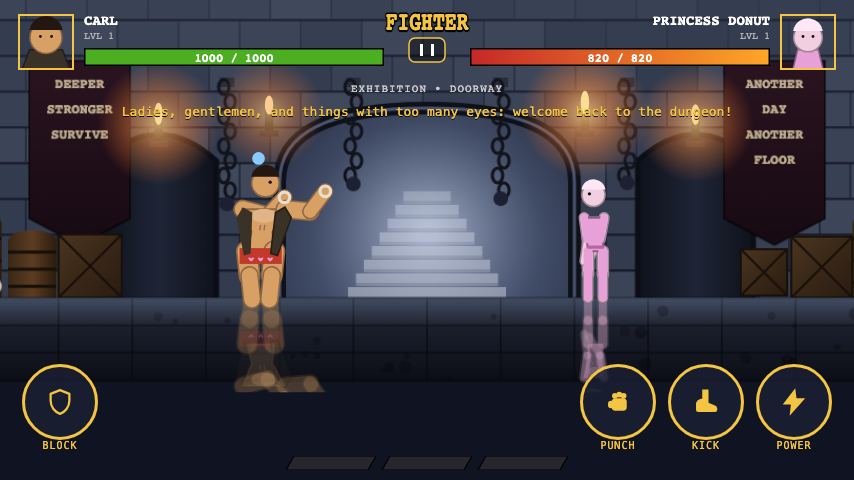
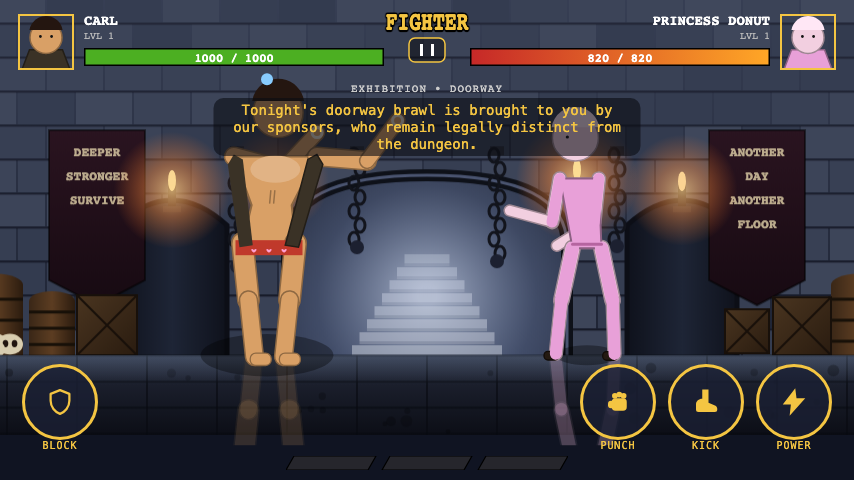
feat: rig scale, framing and grounding art pass toward the rendition
Fighters occupied ~27% of frame height with ~38% of the screen as
empty floor (final review, look-and-feel gaps 1-5). Fixes, iterated
against docs/reference/rendition.jpg and the regenerated docs/shots/:

- Camera.apply/toScreen anchor moved from H*.62 to H*.74 (65_stage.js),
  giving fighters most of the frame and the floor a thin strip.
- Every LOOKS.* proportion raised (legLen most of all — the old
  legLen:limb ratio read as stubby blobs), calibrated against G.
  debugPose's zoom-1.0 screenshots (it never calls G.tick(), so camera
  zoom never lerps toward the fight's usual ~1.1-1.35) to land Carl at
  roughly 53% of frame height at idle, the same relative proportions
  kept for Katia/goblin/hobgoblin/Donut.
- Rig.draw now draws a small rounded-rect foot at each ankle (bare
  skin for Carl via a new look.bareFeet flag, a dark boot otherwise),
  so legs stop ending in a bare line cap.
- POSES.idle reworked into a braced stance: wide bent-knee base (hip
  angles opposite-signed, small combined lower-leg angle so feet still
  land at y~0) and a raised lead-arm guard, replacing the old
  standing-at-attention pose.
- Render.shadow: a flattened dark ellipse under each fighter's feet
  (alpha .35, width off shoulderW so bigger looks get a bigger
  shadow), drawn before the fighter; reflection alpha dropped .18->.12
  so the shadow reads as the primary grounding cue.
- #toast (the announcer line) is now positioned in JS off canvas.
[…]

diff --git a/index.html b/index.html
@@ -17,7 +17,11 @@ canvas{display:block;image-rendering:pixelated;background:#101422}
 #powerPicker.show{display:flex}
 #powerPicker button{width:52px;height:52px;border-radius:50%;border:2px solid #f4c542;background:#1a1f33;color:#f4c542;font:inherit;font-size:13px;font-weight:bold}
 #powerPicker button:disabled{opacity:.3}
-#toast{position:absolute;left:50%;top:104px;transform:translateX(-50%);font-size:13px;color:#f4c542;pointer-events:none;text-shadow:0 1px 0 #000;white-space:nowrap}
+/* Positioned in JS (G.positionToast, called from G.fit on load/resize) off canvas.getBoundingClientRect()
+   so it tracks the canvas box exactly (not #wrap, which can letterbox at other aspect ratios); left/top/
+   max-width are set inline per call. */
+#toast{position:fixed;transform:translateX(-50%);font-size:14px;line-height:1.2;color:#f4c542;pointer-events:none;text-align:center;white-space:normal;background:rgba(10,11,18,.6);border-radius:10px;padding:4px 12px}
+#toast:empty{padding:0}
 #toast.hidden{visibility:hidden}
 </style></head><body><div id="wrap"><canvas id="game" width="854" height="480"></canvas>
 <div id="btns">
@@ -583,8 +587,10 @@ const Camera={
   // exposes camTarget).
   update(cam,f,override){const t=override||f.camTarget;cam.x+=(t.x-cam.x)*.12;cam.zoom+=(t.zoom-cam.zoom)*.12;
     const half=W/2/cam.zoom;cam.x=clamp(cam.x,half,STAGE_W-half)},
-  apply(c,cam){c.setTransform(1,0,0,1,0,0);c.translate(W/2,H*.62);c.scale(cam.zoom,cam.zoom);c.translate(-cam.x,-FLOOR)},
-  toScreen(cam,x,y){return{sx:W/2+(x-cam.x)*cam.zoom,sy:H*.62+(y-FLOOR)*cam.zoom}}};
+  // Anchor moved from .62 to .74: fighters now get most of the frame height and the floor reads as
+  // a thin strip (the rendition target), instead of ~38% of the screen being empty floor.
+  apply(c,cam){c.setTransform(1,0,0,1,0,0);c.translate(W/2,H*.74);c.scale(cam.zoom,cam.zoom);c.translate(-cam.x,-FLOOR)},
+  toScreen(cam,x,y){return{sx:W/2+(x-cam.x)*cam.zoom,sy:H*.74+(y-FLOOR)*cam.zoom}}};
 
 // Stylized vector-rig renderer. Pure presentation: reads Fight/Fighter state, never writes it.
 // Forward-kinematics bone rig driven by keyframed joint-angle poses; per-character "looks" supply
@@ -615,10 +621,16 @@ function samplePose(poseKey,t01){
   const off={x:(aOff.x||0)+((bOff.x||0)-(aOff.x||0))*lt,y:(aOff.y||0)+((bOff.y||0)-(aOff.y||0))*lt};
   return{ang,off}}
 
-// idle: subtle breathing sway; legs stay put (angle 0) so feet never drift off the floor line.
+// idle: a braced fighting stance (wide bent-knee base, lead/right shoulder forward and raised)
+// instead of standing at attention, with a subtle breathing sway between the two keyframes. Hip and
+// knee angles are opposite-signed and close in magnitude per leg (e.g. lHip -12/lKnee 10) so the
+// lower leg's *total* angle from vertical stays small — the stance widens without the foot
+// wandering off the floor line (still verified by the 'feet at y≈0' rig test).
 POSES.idle=[
-  {t:0,ang:{torso:D(2), lShoulder:D(10),rShoulder:D(-8), lElbow:D(20),rElbow:D(16)},off:{x:0,y:0}},
-  {t:1,ang:{torso:D(-2),lShoulder:D(6), rShoulder:D(-12),lElbow:D(24),rElbow:D(12)},off:{x:0,y:0}}];
+  {t:0,ang:{torso:D(6), lShoulder:D(6), rShoulder:D(10),lElbow:D(52),rElbow:D(95),
+            lHip:D(-12),rHip:D(12),lKnee:D(10),rKnee:D(-6)},off:{x:0,y:0}},
+  {t:1,ang:{torso:D(2), lShoulder:D(2), rShoulder:D(14),lElbow:D(56),rElbow:D(90),
+            lHip:D(-14),rHip:D(14),lKnee:D(12),rKnee:D(-8)},off:{x:0,y:0}}];
 POSES.walk=[
   {t:0, ang:{torso:D(3), lHip:D(-20),rHip:D(20), lKnee:D(20),rKnee:D(-10), lShoulder:D(14),rShoulder:D(-14)},off:{x:0,y:0}},
   {t:.5,ang:{torso:D(-3),lHip:D(20), rHip:D(-20),lKnee:D(-10),rKnee:D(20), lShoulder:D(-14),rShoulder:D(14)},off:{x:0,y:0}},
@@ -707,24 +719,32 @@ POSES.ko=[
 preparePoses();
 
 // ---- looks: palette + proportions + props, per character id ----
+// Scaled up from Phase 2's original proportions (legLen most of all — the old legLen:limb ratio was
+// close to 1:1, reading as stubby blobs rather than legs) so a standing Carl is ~190 world px tall
+// at zoom 1 and fills the rendition's share of frame height once paired with Camera's lower anchor
+// (see 65_stage.js). Every look grew, not just Carl, keeping each character's relative proportions
+// (thin trickster/caster vs. bulky brawler/tank) the same as before.
 const LOOKS={
   // Muscular build: shoulders wide relative to limb thickness (~2.2x), waist pinched in well below
   // both shoulder and hip width for a V-taper, thick rounded limbs.
+  // Note: G.debugPose (used for every docs/shots/p2-<pose>.png except p2-goblin/p2-card) never
+  // calls G.tick(), so G.cam.zoom sits at its initial 1.0 for those shots — proportions below target
+  // ~55-65% of frame height at zoom 1.0 exactly, not at the fight camera's usual ~1.1-1.35.
   carl:{skin:'#d9a066',hair:'#241610',primary:'#3a3226',secondary:'#c0392b',
-    limb:18,legLen:46,armLen:48,torsoLen:44,headR:13,shoulderW:40,hipW:26,waistW:20,earLen:0,
+    limb:20,legLen:114,armLen:101,torsoLen:91,headR:25,shoulderW:83,hipW:53,waistW:40,earLen:0,bareFeet:true,
     props:['boxers','vest','bandages']},
   katia:{skin:'#c98a5e',hair:'#171310',primary:'#232f2b',secondary:'#48594f',
-    limb:8,legLen:48,armLen:44,torsoLen:38,headR:10,shoulderW:18,hipW:13,earLen:0,
+    limb:12,legLen:117,armLen:91,torsoLen:78,headR:20,shoulderW:38,hipW:28,earLen:0,
     props:['gear']},
   goblin:{skin:'#5f8a3f',hair:null,primary:'#4a3b28',secondary:'#7a6248',
-    limb:8,legLen:34,armLen:34,torsoLen:28,headR:9,shoulderW:16,hipW:10,earLen:14,
+    limb:13,legLen:82,armLen:72,torsoLen:58,headR:18,shoulderW:33,hipW:21,earLen:29,
     props:['rags','dagger']},
   hobgoblin:{skin:'#5c6b52',hair:null,primary:'#3d3428',secondary:'#6b5c46',
-    limb:18,legLen:50,armLen:54,torsoLen:48,headR:15,shoulderW:36,hipW:22,earLen:10,
+    limb:26,legLen:122,armLen:114,torsoLen:98,headR:29,shoulderW:74,hipW:45,earLen:21,
     props:['rags','club']},
   // Placeholder human-rig look for the Phase 1 caster opponent; her bespoke non-humanoid rig is Phase 3.
   donut:{skin:'#f2cfe0',hair:'#ffe7f5',primary:'#e8a0d8',secondary:'#b565a0',
-    limb:9,legLen:44,armLen:42,torsoLen:36,headR:11,shoulderW:19,hipW:14,earLen:0,
+    limb:14,legLen:107,armLen:88,torsoLen:74,headR:23,shoulderW:39,hipW:29,earLen:0,
     props:['gear']}};
 
 // ---- forward kinematics ----
@@ -776,9 +796,17 @@ const Rig={
     const limb=(p,q,w)=>{c.lineCap='round';
       c.lineWidth=w+3;c.strokeStyle=skinDark;c.beginPath();c.moveTo(p.x,p.y);c.lineTo(q.x,q.y);c.stroke();
       c.lineWidth=w;c.strokeStyle=look.skin;c.beginPath();c.moveTo(p.x,p.y);c.lineTo(q.x,q.y);c.stroke()};
+    // A small rounded rect at each ankle joint so legs end in feet instead of a bare round line cap:
+    // bare skin-toned for a barefoot look (Carl), a dark boot otherwise. Nudged slightly forward of
+    // the ankle (in the facing direction) for a heel-planted, toe-forward read.
+    const foot=(p)=>{const w=look.limb*1.05,h=look.limb*.62,fx=p.x+face*w*.3,fy=p.y+h*.22;
+      const bare=!!look.bareFeet;c.fillStyle=bare?look.skin:'#241a12';c.strokeStyle=bare?skinDark:'#120c08';
+      c.lineWidth=1.3;c.beginPath();
+      if(c.roundRect)c.roundRect(fx-w/2,fy-h/2,w,h,Math.min(w,h)*.45);else c.rect(fx-w/2,fy-h/2,w,h);
+      c.fill();c.stroke()};
     // back limbs first (behind the torso), then torso/head, then front limbs, then props on top.
     // Thighs/upper arms noticeably thicker than shins/forearms, per limb.
-    limb(j.lHip,j.lKnee,look.limb);limb(j.lKnee,j.lFoot,look.limb*.82);
+    limb(j.lHip,j.lKnee,look.limb);limb(j.lKnee,j.lFoot,look.limb*.82);foot(j.lFoot);
     limb(j.lShoulder,j.lElbow,look.limb*.85);limb(j.lElbow,j.lHand,look.limb*.68);
     // Torso as a waist-tapered hexagon (hip -> waist -> shoulder, mirrored) for a real V-taper build,
     // plus a chest highlight and ab-line shading for definition. Shading uses whatever the base torso
@@ -807,7 +835,7 @@ const Rig={
       c.lineTo(j.head.x+look.headR*.9+el*.9,j.head.y-el*.85);
       c.lineTo(j.head.x+look.headR*.3,j.head.y+look.headR*.3);c.closePath();c.fill();c.stroke()}
     c.fillStyle='#141414';c.beginPath();c.arc(j.head.x+face*look.headR*.35,j.head.y-1,1.6,0,Math.PI*2);c.fill();
-    limb(j.rHip,j.rKnee,look.limb);limb(j.rKnee,j.rFoot,look.limb*.82);
+    limb(j.rHip,j.rKnee,look.limb);limb(j.rKnee,j.rFoot,look.limb*.82);foot(j.rFoot);
     limb(j.rShoulder,j.rElbow,look.limb*.85);limb(j.rElbow,j.rHand,look.limb*.68);
     for(const p of look.props||[]){
       if(p==='vest'||p==='rags'){
@@ -923,7 +951,14 @@ const Render={ctx:canvas.getContext('2d'),
     c.drawImage(hc.floorCanvas,W/2-hc.floorCanvas.width/2,80)},
   overlayY(F){const l=F.def.look;return FLOOR-(l.legLen+l.torsoLen+l.headR*2.4)*(F.def.scale||1)-14},
   reflection(c,F,cam,frame){c.save();c.beginPath();c.rect(0,FLOOR,STAGE_W,90);c.clip();
-    c.translate(0,2*FLOOR);c.scale(1,-1);c.globalAlpha=.18;Rig.draw(c,F,cam,frame);c.restore()},
+    c.translate(0,2*FLOOR);c.scale(1,-1);c.globalAlpha=.12;Rig.draw(c,F,cam,frame);c.restore()},
+  // A grounding contact shadow at the fighter's feet — the mirrored reflection alone reads as a
+  // detached ghost. A flattened dark ellipse under the floor art, sized off shoulderW (a stand-in
+  // for the character's overall footprint) so bigger/scaled-up looks (the hobgoblin) get a bigger
+  // shadow than smaller ones (the goblin) without a dedicated per-look radius.
+  shadow(c,F){const look=F.def.look;if(!look)return;const scale=F.def.scale||1,w=look.shoulderW*1.6*scale;
+    c.save();c.globalAlpha=.35;c.fillStyle='#000';
+    c.beginPath();c.ellipse(F.x,FLOOR,w/2,w*.16,0,0,Math.PI*2);c.fill();c.restore()},
   fighter(c,F,cam,frame){
     const flash=F.state==='HITSTUN'&&F.f<3;
     if(flash&&'filter'in c){c.save();c.filter='brightness(2)';Rig.draw(c,F,cam,frame);c.filter='none';c.restore()}
@@ -1006,6 +1041,7 @@ const Render={ctx:canvas.getContext('2d'),
     Stage.draw(c,cam,fr,Stage.build('depths'));
     if(f){
       this.reflection(c,f.p1,cam,fr);this.reflection(c,f.p2,cam,fr);
+      this.shadow(c,f.p1);this.shadow(c,f.p2);
       this.fighter(c,f.p1,cam,fr);this.fighter(c,f.p2,cam,fr)}
     FX.draw(c,cam,fr);
     c.setTransform(1,0,0,1,0,0);
@@ -1098,7 +1134,19 @@ const FX={list:[],shake:0,flash:0,card:null,
 const G={state:'TITLE',fight:null,encounter:null,acc:0,last:0,sim:false,debug:false,seed:1,cam:{x:STAGE_W/2,zoom:1},_tickN:0,
   frameNow:0,_sayAt:-999, // mirrors fight.frame (updated in tick()); gates G.say to one line per 90 frames
   cinemFocus:null, // the attacking Fighter to punch the camera in on, set from the 'card' fx while fight.cinematic>0
-  fit(){const s=Math.min(innerWidth/W,innerHeight/H);canvas.style.width=Math.floor(W*s)+'px';canvas.style.height=Math.floor(H*s)+'px'},
+  fit(){const s=Math.min(innerWidth/W,innerHeight/H);canvas.style.width=Math.floor(W*s)+'px';canvas.style.height=Math.floor(H*s)+'px';this.positionToast()},
+  // Positions #toast off the canvas's own box (canvas.getBoundingClientRect()), not #wrap, so it
+  // tracks the actual displayed game area exactly even when #wrap letterboxes the canvas at an
+  // aspect ratio other than W/H. TOAST_Y is a canvas-local (854x480) y — just under the HUD's
+  // 'FLOOR n • NAME' text (Render.floorLine, drawn at canvas y=80..~96) and well above the stage
+  // arch (its top is around canvas y=175 at zoom 1), so the toast can never cross the arch. Width is
+  // capped at 70% of the displayed canvas width so a long line wraps and pills, rather than running
+  // edge to edge.
+  TOAST_Y:98,
+  positionToast(){const r=canvas.getBoundingClientRect(),el=document.getElementById('toast');
+    el.style.left=(r.left+r.width/2)+'px';
+    el.style.top=(r.top+this.TOAST_Y/H*r.height)+'px';
+    el.style.maxWidth=Math.round(r.width*.7)+'px'},
   show(id,on){document.getElementById(id).classList.toggle('show',on)},
   // Canvas hit-test for the HUD's pause glyph (drawn by Render.hud at Render.pauseRect), consulted
   // by Input's pointerdown handler before it does any zone/gesture handling.

diff --git a/src/68_rig.js b/src/68_rig.js
@@ -27,10 +27,16 @@ function samplePose(poseKey,t01){
   const off={x:(aOff.x||0)+((bOff.x||0)-(aOff.x||0))*lt,y:(aOff.y||0)+((bOff.y||0)-(aOff.y||0))*lt};
   return{ang,off}}
 
-// idle: subtle breathing sway; legs stay put (angle 0) so feet never drift off the floor line.
+// idle: a braced fighting stance (wide bent-knee base, lead/right shoulder forward and raised)
+// instead of standing at attention, with a subtle breathing sway between the two keyframes. Hip and
+// knee angles are opposite-signed and close in magnitude per leg (e.g. lHip -12/lKnee 10) so the
+// lower leg's *total* angle from vertical stays small — the stance widens without the foot
+// wandering off the floor line (still verified by the 'feet at y≈0' rig test).
 POSES.idle=[
-  {t:0,ang:{torso:D(2), lShoulder:D(10),rShoulder:D(-8), lElbow:D(20),rElbow:D(16)},off:{x:0,y:0}},
-  {t:1,ang:{torso:D(-2),lShoulder:D(6), rShoulder:D(-12),lElbow:D(24),rElbow:D(12)},off:{x:0,y:0}}];
+  {t:0,ang:{torso:D(6), lShoulder:D(6), rShoulder:D(10),lElbow:D(52),rElbow:D(95),
+            lHip:D(-12),rHip:D(12),lKnee:D(10),rKnee:D(-6)},off:{x:0,y:0}},
+  {t:1,ang:{torso:D(2), lShoulder:D(2), rShoulder:D(14),lElbow:D(56),rElbow:D(90),
+            lHip:D(-14),rHip:D(14),lKnee:D(12),rKnee:D(-8)},off:{x:0,y:0}}];
 POSES.walk=[
   {t:0, ang:{torso:D(3), lHip:D(-20),rHip:D(20), lKnee:D(20),rKnee:D(-10), lShoulder:D(14),rShoulder:D(-14)},off:{x:0,y:0}},
   {t:.5,ang:{torso:D(-3),lHip:D(20), rHip:D(-20),lKnee:D(-10),rKnee:D(20), lShoulder:D(-14),rShoulder:D(14)},off:{x:0,y:0}},
@@ -119,24 +125,32 @@ POSES.ko=[
 preparePoses();
 
 // ---- looks: palette + proportions + props, per character id ----
+// Scaled up from Phase 2's original proportions (legLen most of all — the old legLen:limb ratio was
+// close to 1:1, reading as stubby blobs rather than legs) so a standing Carl is ~190 world px tall
+// at zoom 1 and fills the rendition's share of frame height once paired with Camera's lower anchor
+// (see 65_stage.js). Every look grew, not just Carl, keeping each character's relative proportions
+// (thin trickster/caster vs. bulky brawler/tank) the same as before.
 const LOOKS={
   // Muscular build: shoulders wide relative to limb thickness (~2.2x), waist pinched in well below
   // both shoulder and hip width for a V-taper, thick rounded limbs.
+  // Note: G.debugPose (used for every docs/shots/p2-<pose>.png except p2-goblin/p2-card) never
+  // calls G.tick(), so G.cam.zoom sits at its initial 1.0 for those shots — proportions below target
+  // ~55-65% of frame height at zoom 1.0 exactly, not at the fight camera's usual ~1.1-1.35.
   carl:{skin:'#d9a066',hair:'#241610',primary:'#3a3226',secondary:'#c0392b',
-    limb:18,legLen:46,armLen:48,torsoLen:44,headR:13,shoulderW:40,hipW:26,waistW:20,earLen:0,
+    limb:20,legLen:114,armLen:101,torsoLen:91,headR:25,shoulderW:83,hipW:53,waistW:40,earLen:0,bareFeet:true,
     props:['boxers','vest','bandages']},
   katia:{skin:'#c98a5e',hair:'#171310',primary:'#232f2b',secondary:'#48594f',
-    limb:8,legLen:48,armLen:44,torsoLen:38,headR:10,shoulderW:18,hipW:13,earLen:0,
+    limb:12,legLen:117,armLen:91,torsoLen:78,headR:20,shoulderW:38,hipW:28,earLen:0,
     props:['gear']},
   goblin:{skin:'#5f8a3f',hair:null,primary:'#4a3b28',secondary:'#7a6248',
-    limb:8,legLen:34,armLen:34,torsoLen:28,headR:9,shoulderW:16,hipW:10,earLen:14,
+    limb:13,legLen:82,armLen:72,torsoLen:58,headR:18,shoulderW:33,hipW:21,earLen:29,
     props:['rags','dagger']},
   hobgoblin:{skin:'#5c6b52',hair:null,primary:'#3d3428',secondary:'#6b5c46',
-    limb:18,legLen:50,armLen:54,torsoLen:48,headR:15,shoulderW:36,hipW:22,earLen:10,
+    limb:26,legLen:122,armLen:114,torsoLen:98,headR:29,shoulderW:74,hipW:45,earLen:21,
     props:['rags','club']},
   // Placeholder human-rig look for the Phase 1 caster opponent; her bespoke non-humanoid rig is Phase 3.
   donut:{skin:'#f2cfe0',hair:'#ffe7f5',primary:'#e8a0d8',secondary:'#b565a0',
-    limb:9,legLen:44,armLen:42,torsoLen:36,headR:11,shoulderW:19,hipW:14,earLen:0,
+    limb:14,legLen:107,armLen:88,torsoLen:74,headR:23,shoulderW:39,hipW:29,earLen:0,
     props:['gear']}};
 
 // ---- forward kinematics ----
@@ -188,9 +202,17 @@ const Rig={
     const limb=(p,q,w)=>{c.lineCap='round';
       c.lineWidth=w+3;c.strokeStyle=skinDark;c.beginPath();c.moveTo(p.x,p.y);c.lineTo(q.x,q.y);c.stroke();
       c.lineWidth=w;c.strokeStyle=look.skin;c.beginPath();c.moveTo(p.x,p.y);c.lineTo(q.x,q.y);c.stroke()};
+    // A small rounded rect at each ankle joint so legs end in feet instead of a bare round line cap:
+    // bare skin-toned for a barefoot look (Carl), a dark boot otherwise. Nudged slightly forward of
+    // the ankle (in the facing direction) for a heel-planted, toe-forward read.
+    const foot=(p)=>{const w=look.limb*1.05,h=look.limb*.62,fx=p.x+face*w*.3,fy=p.y+h*.22;
+      const bare=!!look.bareFeet;c.fillStyle=bare?look.skin:'#241a12';c.strokeStyle=bare?skinDark:'#120c08';
+      c.lineWidth=1.3;c.beginPath();
+      if(c.roundRect)c.roundRect(fx-w/2,fy-h/2,w,h,Math.min(w,h)*.45);else c.rect(fx-w/2,fy-h/2,w,h);
+      c.fill();c.stroke()};
     // back limbs first (behind the torso), then torso/head, then front limbs, then props on top.
     // Thighs/upper arms noticeably thicker than shins/forearms, per limb.
-    limb(j.lHip,j.lKnee,look.limb);limb(j.lKnee,j.lFoot,look.limb*.82);
+    limb(j.lHip,j.lKnee,look.limb);limb(j.lKnee,j.lFoot,look.limb*.82);foot(j.lFoot);
     limb(j.lShoulder,j.lElbow,look.limb*.85);limb(j.lElbow,j.lHand,look.limb*.68);
     // Torso as a waist-tapered hexagon (hip -> waist -> shoulder, mirrored) for a real V-taper build,
     // plus a chest highlight and ab-line shading for definition. Shading uses whatever the base torso
@@ -219,7 +241,7 @@ const Rig={
       c.lineTo(j.head.x+look.headR*.9+el*.9,j.head.y-el*.85);
       c.lineTo(j.head.x+look.headR*.3,j.head.y+look.headR*.3);c.closePath();c.fill();c.stroke()}
     c.fillStyle='#141414';c.beginPath();c.arc(j.head.x+face*look.headR*.35,j.head.y-1,1.6,0,Math.PI*2);c.fill();
-    limb(j.rHip,j.rKnee,look.limb);limb(j.rKnee,j.rFoot,look.limb*.82);
+    limb(j.rHip,j.rKnee,look.limb);limb(j.rKnee,j.rFoot,look.limb*.82);foot(j.rFoot);
     limb(j.rShoulder,j.rElbow,look.limb*.85);limb(j.rElbow,j.rHand,look.limb*.68);
     for(const p of look.props||[]){
       if(p==='vest'||p==='rags'){

diff --git a/src/80_game.js b/src/80_game.js
@@ -1,7 +1,19 @@
 const G={state:'TITLE',fight:null,encounter:null,acc:0,last:0,sim:false,debug:false,seed:1,cam:{x:STAGE_W/2,zoom:1},_tickN:0,
   frameNow:0,_sayAt:-999, // mirrors fight.frame (updated in tick()); gates G.say to one line per 90 frames
   cinemFocus:null, // the attacking Fighter to punch the camera in on, set from the 'card' fx while fight.cinematic>0
-  fit(){const s=Math.min(innerWidth/W,innerHeight/H);canvas.style.width=Math.floor(W*s)+'px';canvas.style.height=Math.floor(H*s)+'px'},
+  fit(){const s=Math.min(innerWidth/W,innerHeight/H);canvas.style.width=Math.floor(W*s)+'px';canvas.style.height=Math.floor(H*s)+'px';this.positionToast()},
+  // Positions #toast off the canvas's own box (canvas.getBoundingClientRect()), not #wrap, so it
+  // tracks the actual displayed game area exactly even when #wrap letterboxes the canvas at an
+  // aspect ratio other than W/H. TOAST_Y is a canvas-local (854x480) y — just under the HUD's
+  // 'FLOOR n • NAME' text (Render.floorLine, drawn at canvas y=80..~96) and well above the stage
+  // arch (its top is around canvas y=175 at zoom 1), so the toast can never cross the arch. Width is
+  // capped at 70% of the displayed canvas width so a long line wraps and pills, rather than running
+  // edge to edge.
+  TOAST_Y:98,
+  positionToast(){const r=canvas.getBoundingClientRect(),el=document.getElementById('toast');
+    el.style.left=(r.left+r.width/2)+'px';
+    el.style.top=(r.top+this.TOAST_Y/H*r.height)+'px';
+    el.style.maxWidth=Math.round(r.width*.7)+'px'},
   show(id,on){document.getElementById(id).classList.toggle('show',on)},
   // Canvas hit-test for the HUD's pause glyph (drawn by Render.hud at Render.pauseRect), consulted
   // by Input's pointerdown handler before it does any zone/gesture handling.

diff --git a/src/70_render.js b/src/70_render.js
@@ -37,7 +37,14 @@ const Render={ctx:canvas.getContext('2d'),
     c.drawImage(hc.floorCanvas,W/2-hc.floorCanvas.width/2,80)},
   overlayY(F){const l=F.def.look;return FLOOR-(l.legLen+l.torsoLen+l.headR*2.4)*(F.def.scale||1)-14},
   reflection(c,F,cam,frame){c.save();c.beginPath();c.rect(0,FLOOR,STAGE_W,90);c.clip();
-    c.translate(0,2*FLOOR);c.scale(1,-1);c.globalAlpha=.18;Rig.draw(c,F,cam,frame);c.restore()},
+    c.translate(0,2*FLOOR);c.scale(1,-1);c.globalAlpha=.12;Rig.draw(c,F,cam,frame);c.restore()},
+  // A grounding contact shadow at the fighter's feet — the mirrored reflection alone reads as a
+  // detached ghost. A flattened dark ellipse under the floor art, sized off shoulderW (a stand-in
+  // for the character's overall footprint) so bigger/scaled-up looks (the hobgoblin) get a bigger
+  // shadow than smaller ones (the goblin) without a dedicated per-look radius.
+  shadow(c,F){const look=F.def.look;if(!look)return;const scale=F.def.scale||1,w=look.shoulderW*1.6*scale;
+    c.save();c.globalAlpha=.35;c.fillStyle='#000';
+    c.beginPath();c.ellipse(F.x,FLOOR,w/2,w*.16,0,0,Math.PI*2);c.fill();c.restore()},
   fighter(c,F,cam,frame){
     const flash=F.state==='HITSTUN'&&F.f<3;
     if(flash&&'filter'in c){c.save();c.filter='brightness(2)';Rig.draw(c,F,cam,frame);c.filter='none';c.restore()}
@@ -120,6 +127,7 @@ const Render={ctx:canvas.getContext('2d'),
     Stage.draw(c,cam,fr,Stage.build('depths'));
     if(f){
       this.reflection(c,f.p1,cam,fr);this.reflection(c,f.p2,cam,fr);
+      this.shadow(c,f.p1);this.shadow(c,f.p2);
       this.fighter(c,f.p1,cam,fr);this.fighter(c,f.p2,cam,fr)}
     FX.draw(c,cam,fr);
     c.setTransform(1,0,0,1,0,0);

diff --git a/src/00_head.html b/src/00_head.html
@@ -17,7 +17,11 @@ canvas{display:block;image-rendering:pixelated;background:#101422}
 #powerPicker.show{display:flex}
 #powerPicker button{width:52px;height:52px;border-radius:50%;border:2px solid #f4c542;background:#1a1f33;color:#f4c542;font:inherit;font-size:13px;font-weight:bold}
 #powerPicker button:disabled{opacity:.3}
-#toast{position:absolute;left:50%;top:104px;transform:translateX(-50%);font-size:13px;color:#f4c542;pointer-events:none;text-shadow:0 1px 0 #000;white-space:nowrap}
+/* Positioned in JS (G.positionToast, called from G.fit on load/resize) off canvas.getBoundingClientRect()
+   so it tracks the canvas box exactly (not #wrap, which can letterbox at other aspect ratios); left/top/
+   max-width are set inline per call. */
+#toast{position:fixed;transform:translateX(-50%);font-size:14px;line-height:1.2;color:#f4c542;pointer-events:none;text-align:center;white-space:normal;background:rgba(10,11,18,.6);border-radius:10px;padding:4px 12px}
+#toast:empty{padding:0}
 #toast.hidden{visibility:hidden}
 </style></head><body><div id="wrap"><canvas id="game" width="854" height="480"></canvas>
 <div id="btns">

diff --git a/src/65_stage.js b/src/65_stage.js
@@ -112,5 +112,7 @@ const Camera={
   // exposes camTarget).
   update(cam,f,override){const t=override||f.camTarget;cam.x+=(t.x-cam.x)*.12;cam.zoom+=(t.zoom-cam.zoom)*.12;
     const half=W/2/cam.zoom;cam.x=clamp(cam.x,half,STAGE_W-half)},
-  apply(c,cam){c.setTransform(1,0,0,1,0,0);c.translate(W/2,H*.62);c.scale(cam.zoom,cam.zoom);c.translate(-cam.x,-FLOOR)},
-  toScreen(cam,x,y){return{sx:W/2+(x-cam.x)*cam.zoom,sy:H*.62+(y-FLOOR)*cam.zoom}}};
+  // Anchor moved from .62 to .74: fighters now get most of the frame height and the floor reads as
+  // a thin strip (the rendition target), instead of ~38% of the screen being empty floor.
+  apply(c,cam){c.setTransform(1,0,0,1,0,0);c.translate(W/2,H*.74);c.scale(cam.zoom,cam.zoom);c.translate(-cam.x,-FLOOR)},
+  toScreen(cam,x,y){return{sx:W/2+(x-cam.x)*cam.zoom,sy:H*.74+(y-FLOOR)*cam.zoom}}};
